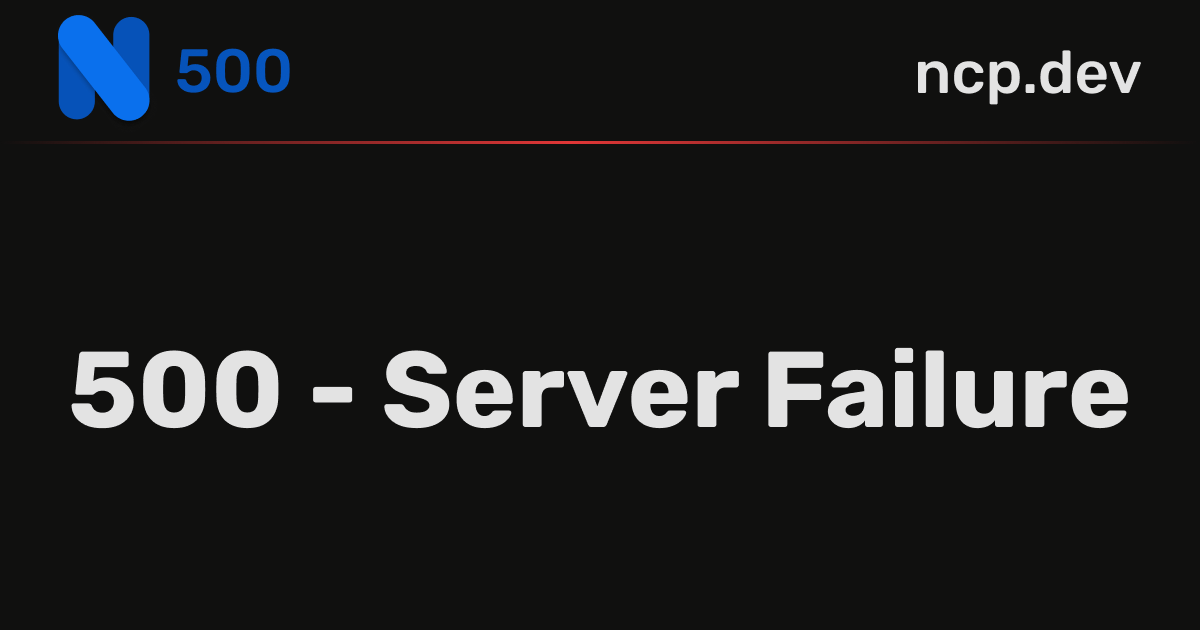
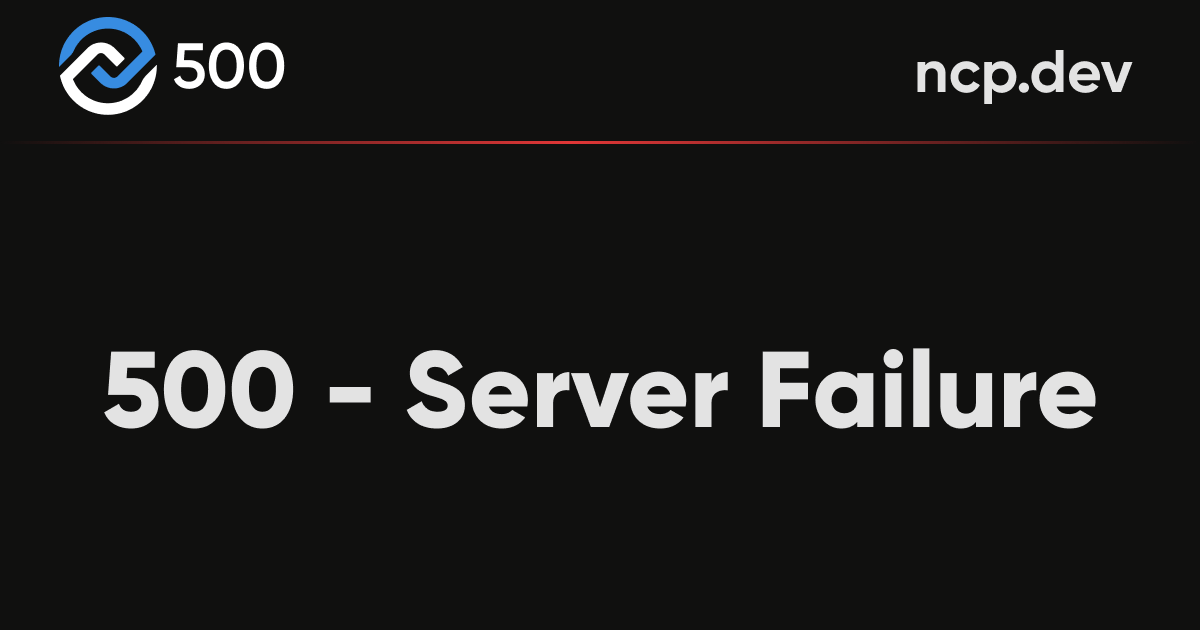
💫 Unifaction
- Normalized new logo (trademarking pending)
- Added view transitions to the most recent blog (banner)
- Removed some unneeded code
- Fully embraced the new font: Gilroy.

Changed region(s): [[0.0617, 0.5429, 0.9558, 0.6937], [0.0308, 0.0, 0.2467, 0.2111], [0.7708, 0.0603, 0.9558, 0.181]]

diff --git a/src/config.css b/src/config.css
@@ -6,7 +6,7 @@
 	--primary-hover: #073c79;
 	--secondary: #032348;
 	--accent: #378CE1;	
-	--font: 'Rubik', sans-serif;
+	--font: 'Gilroy';
 	--main-border-radius: 100px;
 	--secondary-border-radius: 10px;
 	--max-width: 1600px;
